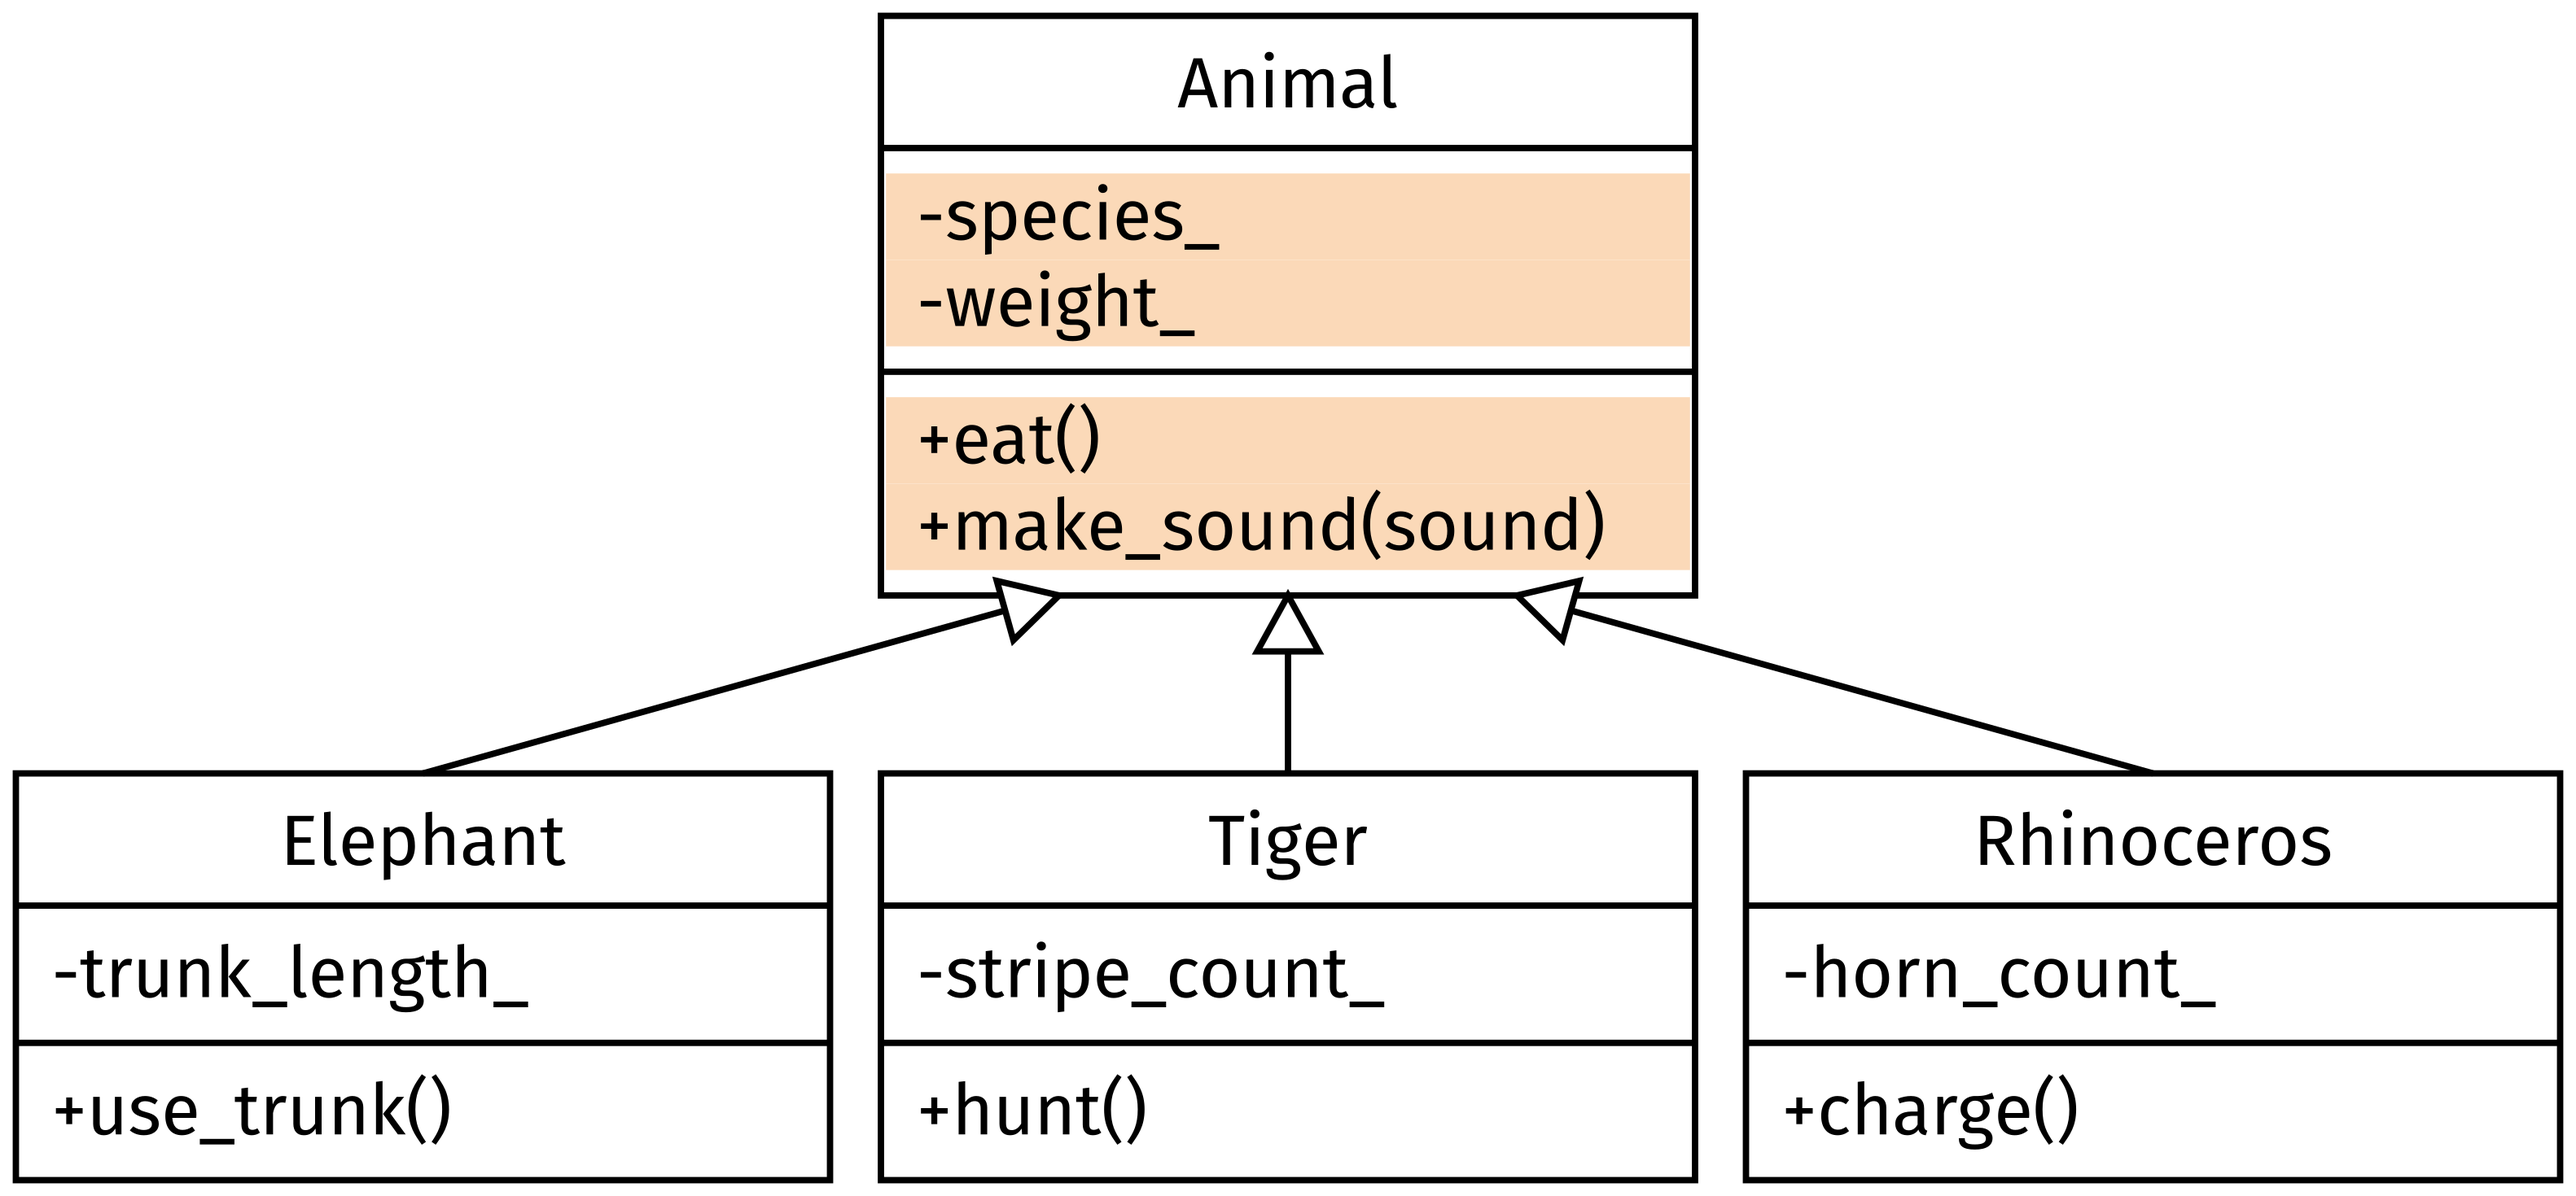
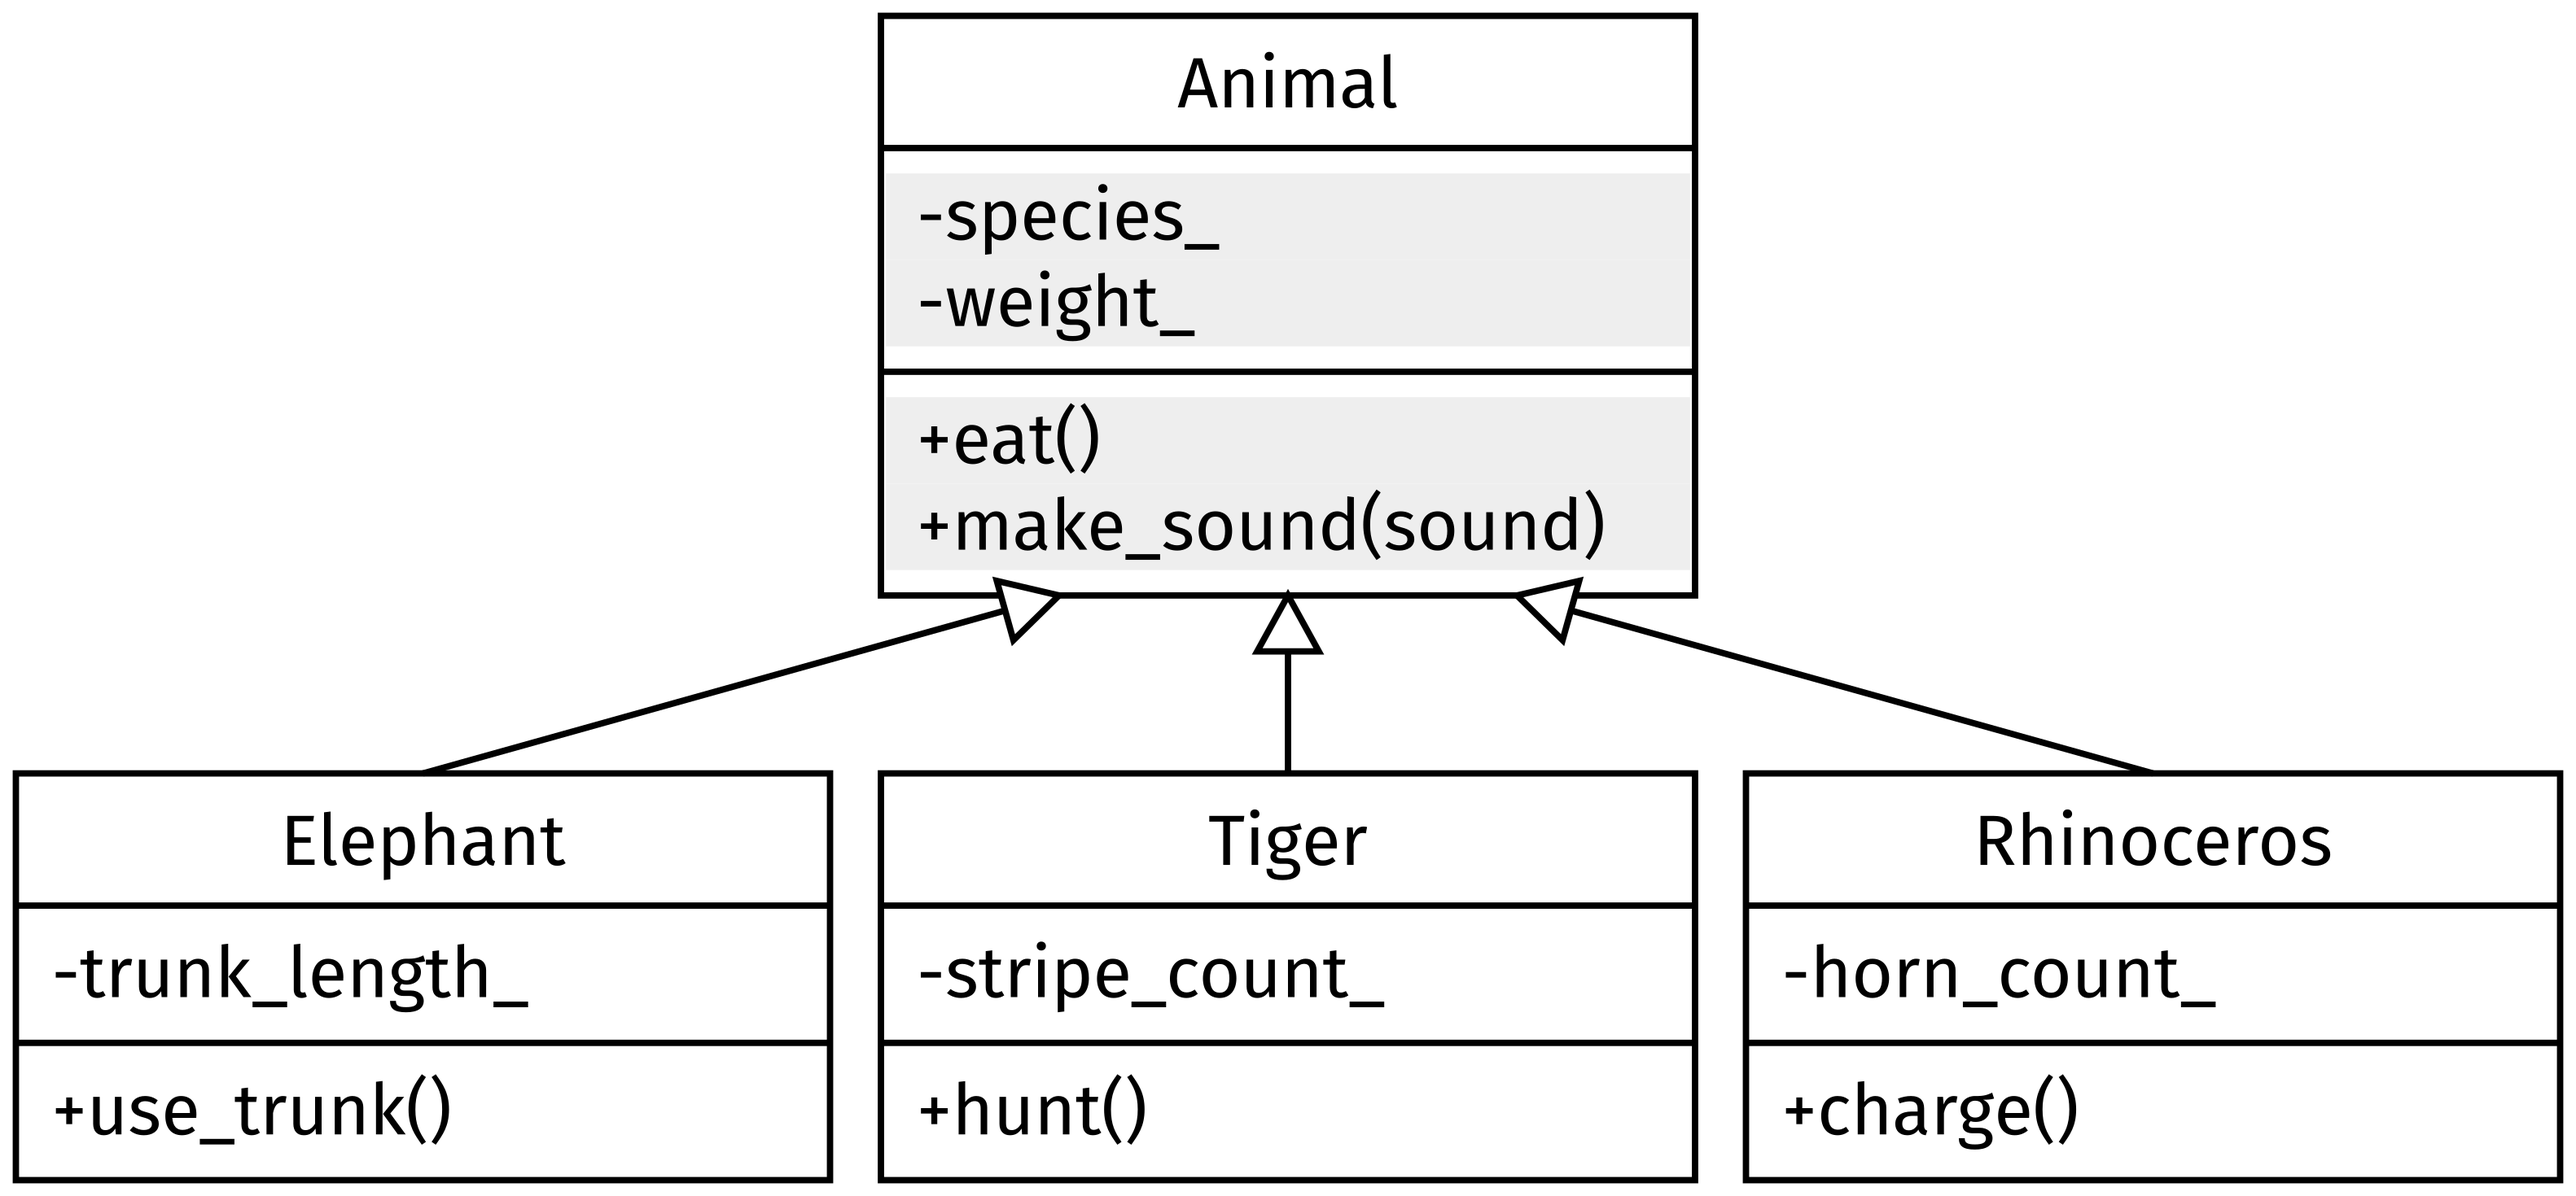
L9: one light gray in the generalization and specialization figures
As on the slides: the shared and added members are shaded light gray,
and the page says Gray instead of Orange and Blue.

Changed region(s): [[0.3407, 0.1224, 0.6814, 0.4898]]

diff --git a/docs/source/lectures/lecture9/l9_lecture.rst b/docs/source/lectures/lecture9/l9_lecture.rst
@@ -1058,13 +1058,13 @@ Generalization: The Shared Members Move Up
 """"""""""""""""""""""""""""""""""""""""""
 
 .. figure:: /_static/images/l9/generalization_after.png
-   :alt: A class diagram: Animal on top, with minus species_, minus weight_, plus eat() and plus make_sound(sound), all four shaded orange. Below it, Elephant (minus trunk_length_, plus use_trunk()), Tiger (minus stripe_count_, plus hunt()) and Rhinoceros (minus horn_count_, plus charge()), each joined to Animal by a line with a hollow triangle at Animal.
+   :alt: A class diagram: Animal on top, with minus species_, minus weight_, plus eat() and plus make_sound(sound), all four shaded light gray. Below it, Elephant (minus trunk_length_, plus use_trunk()), Tiger (minus stripe_count_, plus hunt()) and Rhinoceros (minus horn_count_, plus charge()), each joined to Animal by a line with a hollow triangle at Animal.
    :align: center
    :width: 70%
 
    The shared members move up into ``Animal``.
 
-- Orange: the shared members move up into a new base class, ``Animal``, written once.
+- Gray: the shared members move up into a new base class, ``Animal``, written once.
 - Each derived class keeps only what it adds.
 
 Specialization
@@ -1073,13 +1073,13 @@ Specialization
 **Specialization**: starting from a base class, and writing a derived class for objects that need more: top-down.
 
 .. figure:: /_static/images/l9/specialization_steps.png
-   :alt: On the left, one class box: Animal, with minus species_, minus weight_, plus eat() and plus make_sound(sound). A thick arrow points right, to a class diagram: the same Animal on top, and below it Elephant, Tiger and Rhinoceros, each joined to Animal by a line with a hollow triangle at Animal. Each derived box lists only what it adds, shaded blue: minus trunk_length_ and plus use_trunk() for Elephant, minus stripe_count_ and plus hunt() for Tiger, minus horn_count_ and plus charge() for Rhinoceros.
+   :alt: On the left, one class box: Animal, with minus species_, minus weight_, plus eat() and plus make_sound(sound). A thick arrow points right, to a class diagram: the same Animal on top, and below it Elephant, Tiger and Rhinoceros, each joined to Animal by a line with a hollow triangle at Animal. Each derived box lists only what it adds, shaded light gray: minus trunk_length_ and plus use_trunk() for Elephant, minus stripe_count_ and plus hunt() for Tiger, minus horn_count_ and plus charge() for Rhinoceros.
    :align: center
    :width: 90%
 
    Specialization: each derived class adds to ``Animal``.
 
-- Blue: what each derived class adds to ``Animal``. Everything else it gets from ``Animal``.
+- Gray: what each derived class adds to ``Animal``. Everything else it gets from ``Animal``.
 
 Generalization and Specialization
 """""""""""""""""""""""""""""""""
